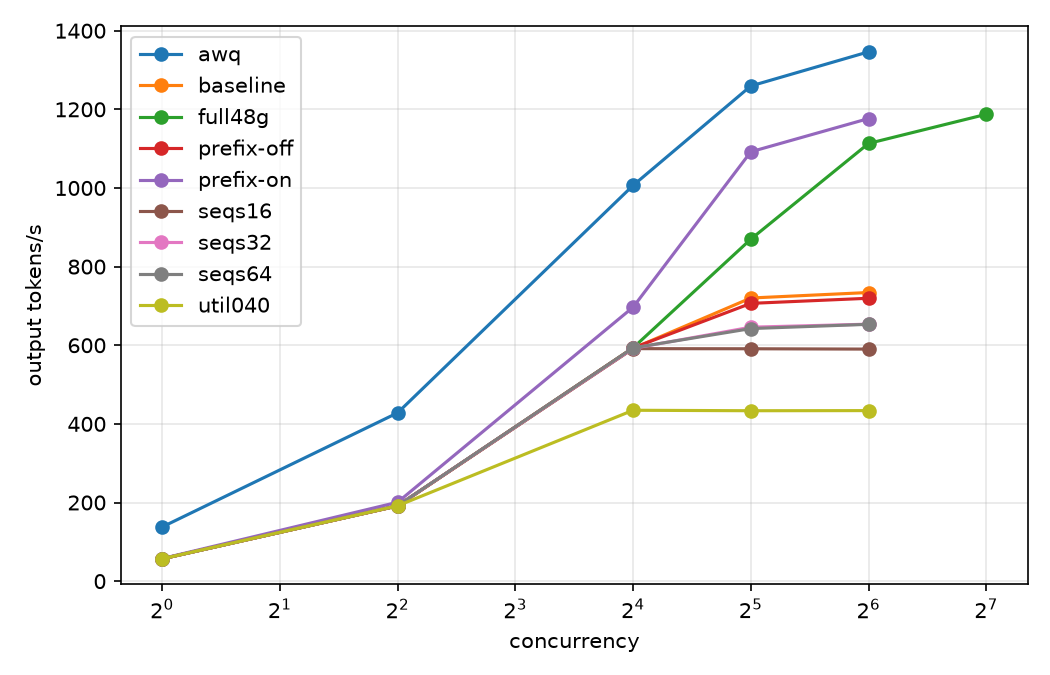
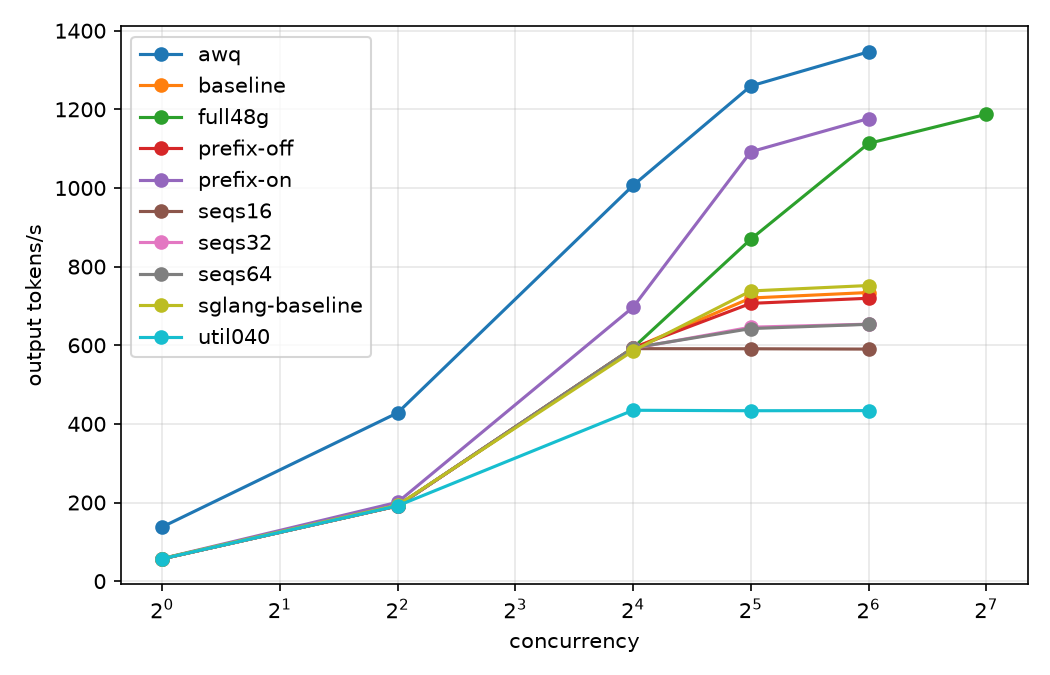
results: 第 9 天 vLLM 与 SGLang 标准负载对比

diff --git a/results/06-sglang/compare.md b/results/06-sglang/compare.md
@@ -1,0 +1,20 @@
+# vLLM vs SGLang 标准负载对比（2026-10-16）
+
+同一张 RTX 4090 48G、同一个 Qwen3-8B（BF16）、同一个压测客户端（`scripts/bench.sh`，random 输入 1024、输出 256，`--ignore-eos`，每档不同 seed）。
+KV Cache 容量：**vLLM 30,352 token / SGLang 32,116 token（+5.8%）**，见 `kv-alignment.md`。vLLM 数据为 `../bench/baseline/`（2026-10-15 新 seed 重跑），SGLang 为 `../bench/sglang-baseline/`。两边全部 0 失败。
+
+| 并发 | 输出吞吐 tok/s（vLLM / SGLang） | TTFT P50 ms | TTFT P95 ms | ITL P95 ms | E2E P95 ms |
+| --- | --- | --- | --- | --- | --- |
+| 1 | 57 / 57 | 113 / 122 | 115 / 123 | 17.6 / 17.2 | 4,526 / 4,462 |
+| 4 | 191 / 193 | 281 / 327 | 424 / 423 | 18.9 / 18.6 | 5,185 / 5,118 |
+| 16 | 592 / 586 | 585 / 1,143 | 947 / 1,649 | 21.4 / 21.3 | 7,122 / 6,998 |
+| 32 | 720 / 738 | 1,503 / 2,120 | 7,683 / 9,489 | 75.9 / 23.9 | 16,028 / 17,398 |
+| 64 | 734 / 752 | 11,220 / 11,436 | 17,439 / 18,627 | 78.4 / 24.0 | 25,694 / 26,536 |
+
+## 结论
+
+- **吞吐基本相同**：各档差距在 2.5% 以内，SGLang 在并发 32、64 略高（KV 多 5.8% 也有贡献）。
+- **首字延迟 vLLM 更好**：并发 16 时 TTFT P50 585 vs 1,143ms、P95 947 vs 1,649ms；并发 32 时 P95 7.7 vs 9.5 秒。
+- **逐字延迟 SGLang 更稳**：并发 32、64 时 ITL P95 约 24ms，vLLM 为 76~78ms。
+- 推测（待源码笔记核实）：SGLang 的日志里 prefill 和 decode 是分开的批次（`Prefill batch` / `Decode batch`），新请求的 prefill 不插进正在生成的批次，逐字稳定但新请求要等；vLLM 把新请求的 prefill 分块混进 decode 步，首字更快，但正在生成的请求被拖慢。这也对应 `../bench/knee.md` 待查问题 2（vLLM 设 `--max-num-seqs 32/64` 后 ITL P95 也降到约 24ms）。
+- 选型：在意首字的聊天类产品偏向 vLLM；长输出、在意流式输出流畅度的场景 SGLang 更稳。Agent 场景以 prefill 为主，看第 10 天的 Agent 负载结果。

diff --git a/results/bench/summary.md b/results/bench/summary.md
@@ -41,6 +41,11 @@
 | seqs64 | 16 | 593.3 | 584 | 947 | 21.3 | 7107 | 160 | 0 |
 | seqs64 | 32 | 642.4 | 2338 | 7873 | 23.6 | 15432 | 320 | 0 |
 | seqs64 | 64 | 653.2 | 17123 | 18167 | 23.5 | 28344 | 640 | 0 |
+| sglang-baseline | 1 | 57.4 | 122 | 123 | 17.2 | 4462 | 50 | 0 |
+| sglang-baseline | 4 | 193.4 | 327 | 423 | 18.6 | 5118 | 50 | 0 |
+| sglang-baseline | 16 | 585.8 | 1143 | 1649 | 21.3 | 6998 | 160 | 0 |
+| sglang-baseline | 32 | 738.1 | 2120 | 9489 | 23.9 | 17398 | 320 | 0 |
+| sglang-baseline | 64 | 751.9 | 11436 | 18627 | 24.0 | 26536 | 640 | 0 |
 | util040 | 1 | 56.8 | 114 | 115 | 17.5 | 4513 | 50 | 0 |
 | util040 | 4 | 191.6 | 281 | 424 | 18.9 | 5170 | 50 | 0 |
 | util040 | 16 | 434.6 | 1160 | 6357 | 20.4 | 12287 | 160 | 0 |
